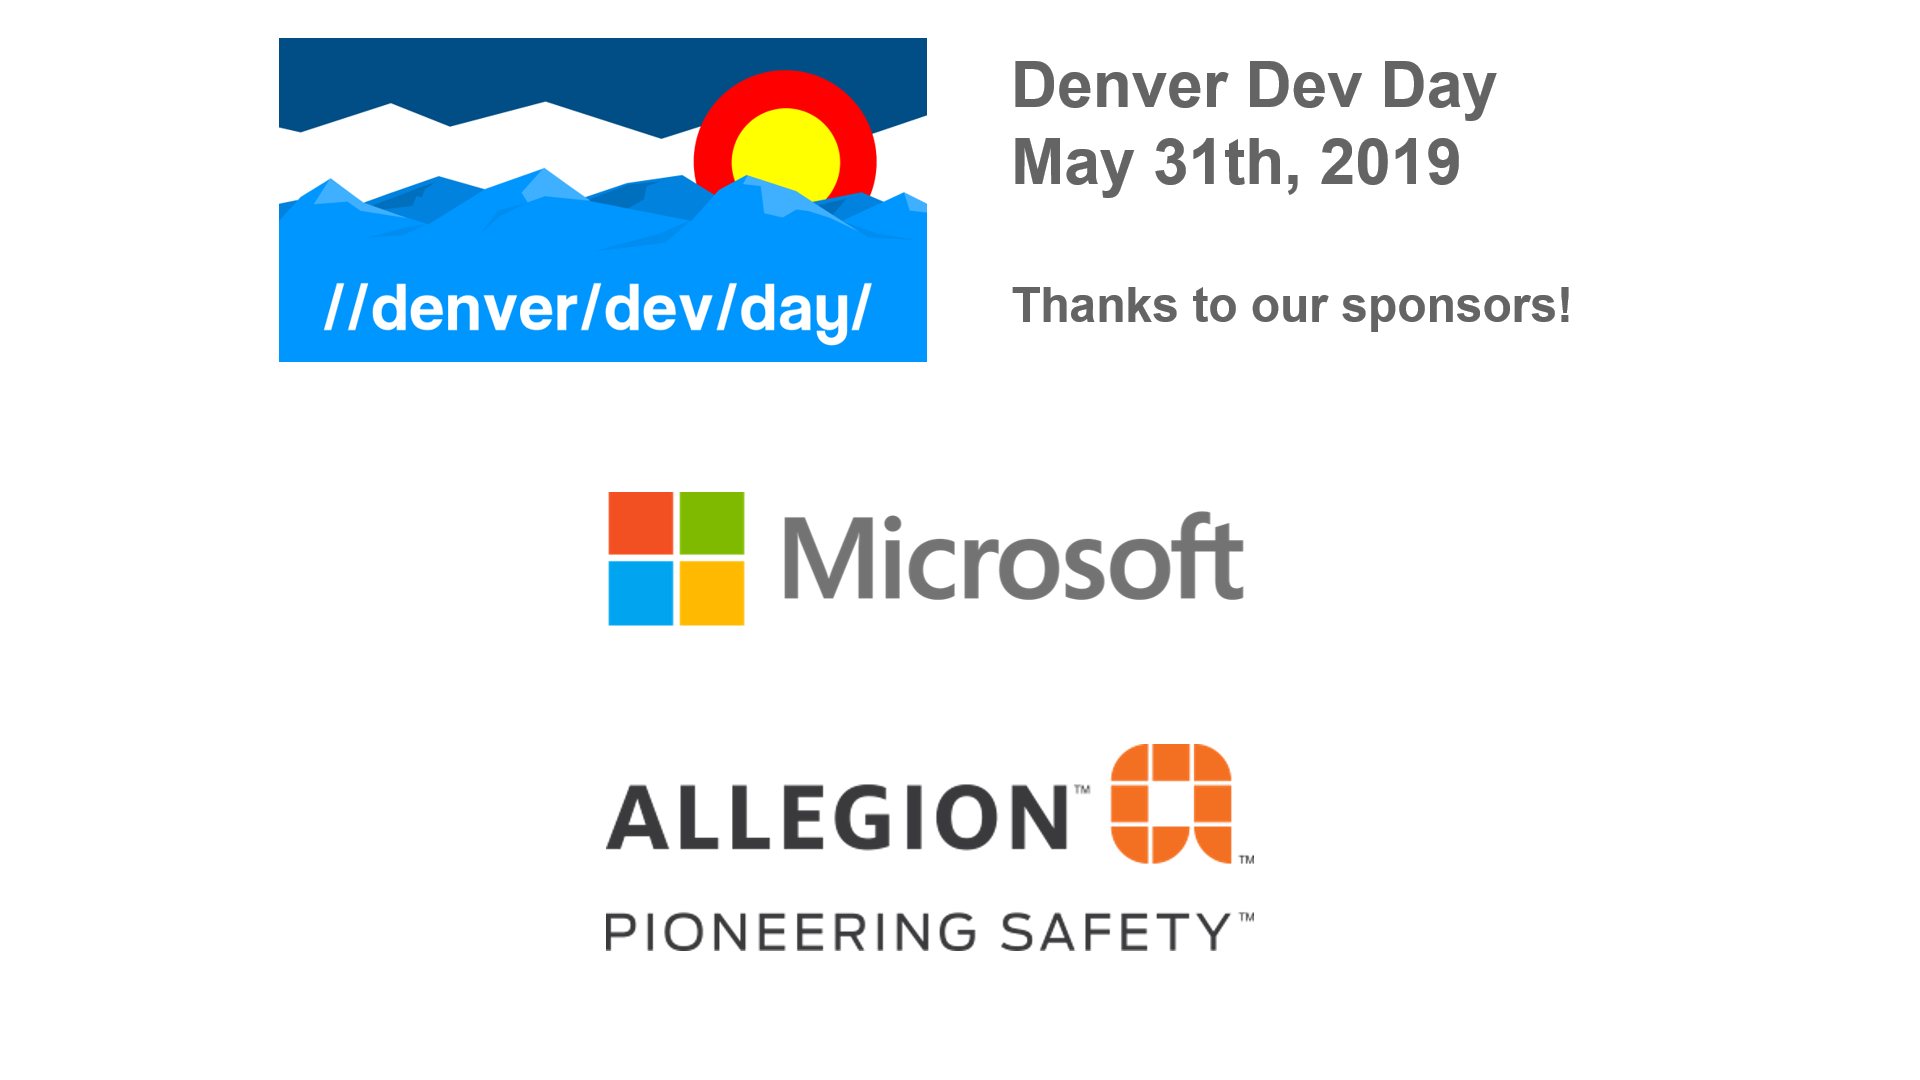
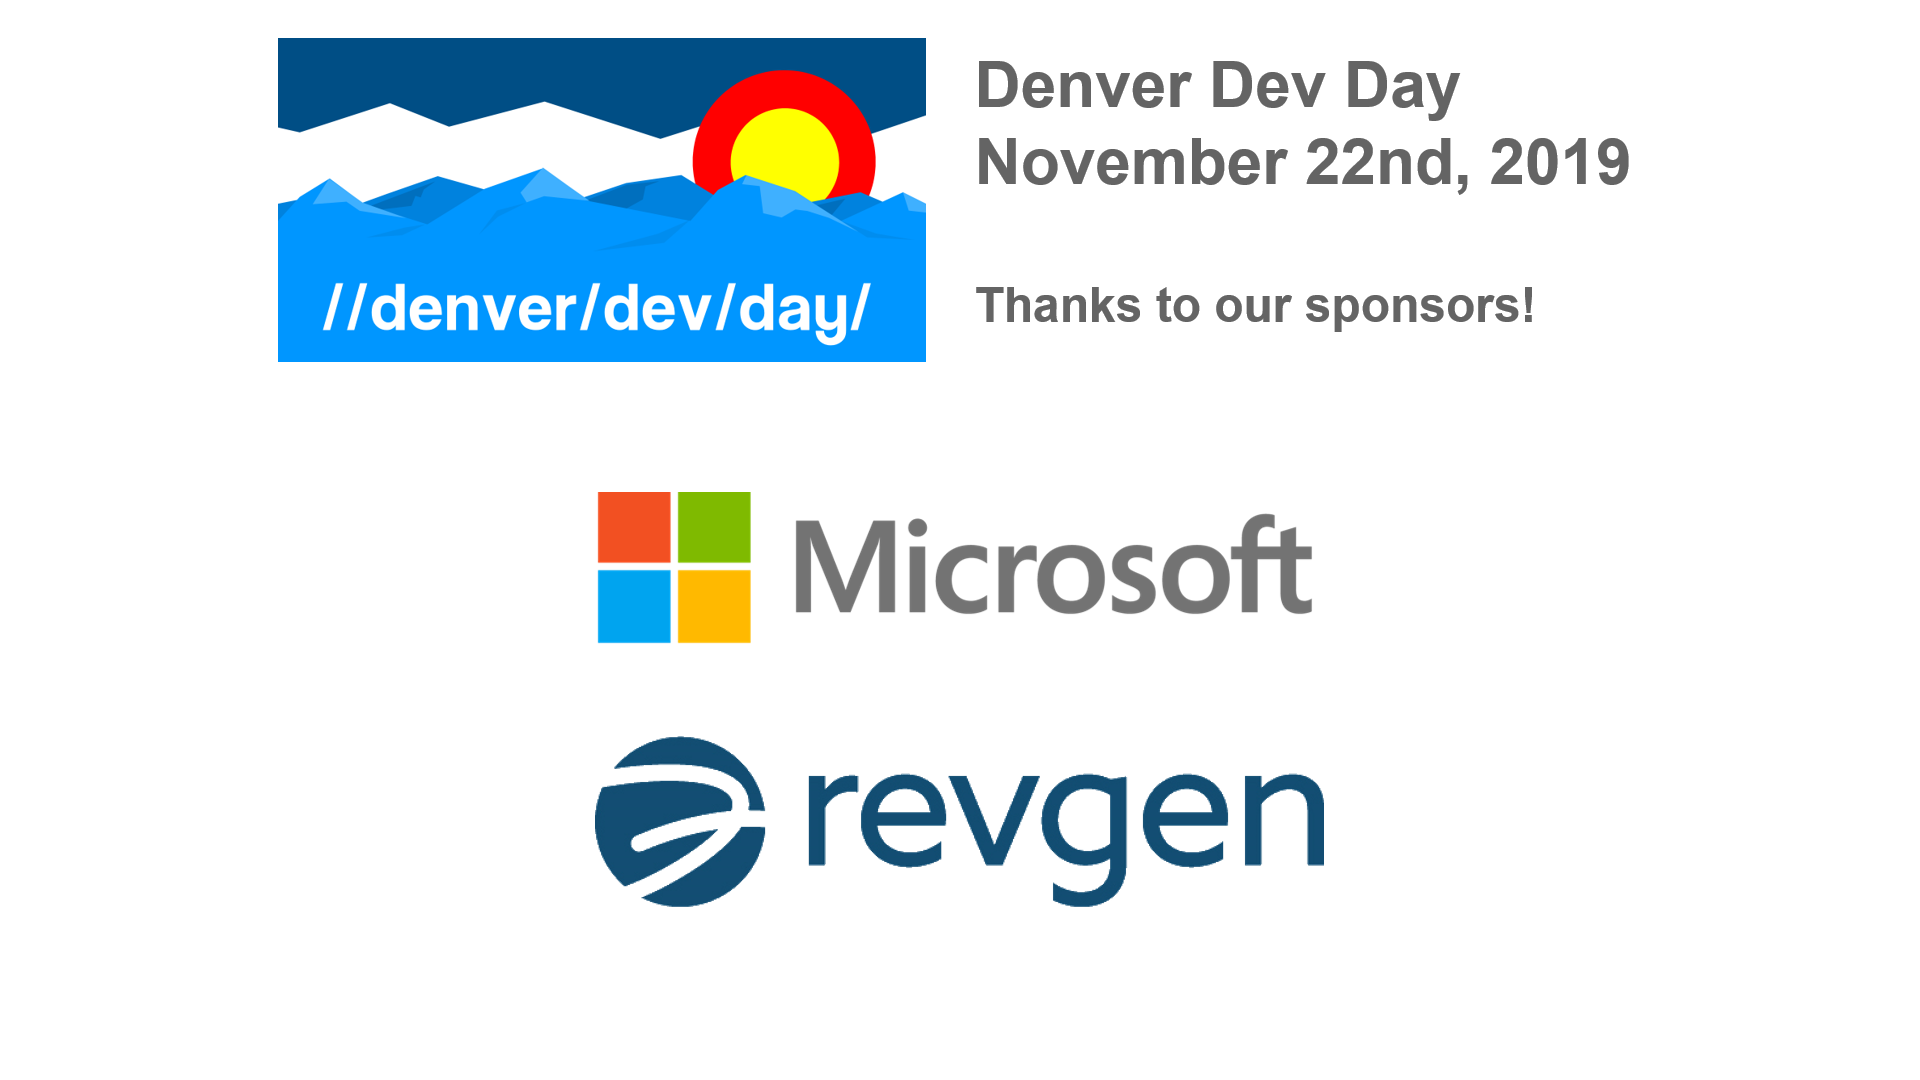
Update generated slides

diff --git a/index.html b/index.html
@@ -2,8 +2,8 @@
 <html lang="en">
 <head>
     <meta charset="utf-8">
-    <title>FAKE It Until You Make It</title>
-    <meta name="description" content="FAKE It Until You Make It. Denver Dev Day (May 31, 2019)">
+    <title>How slow your code is?</title>
+    <meta name="description" content=". Denver Dev Day (November 22, 2019)">
     <meta name="author" content="Grigoriy Belenkiy">
     <meta name="apple-mobile-web-app-capable" content="yes" />
     <meta name="apple-mobile-web-app-status-bar-style" content="black-translucent" />
@@ -55,8 +55,8 @@ Sponsors slide (required by organizators)<br/>
 </aside>
 </section>
 <section >
-<h3>FAKE It Until You Make It</h3>
-<p><img src="./images/fake-it-unicorn.jpg" alt="FAKE It" /></p>
+<h3>How slow your code is?</h3>
+<p><img src="./images/tortoise-hare-race.jpg" alt="Race" /></p>
 <p><small>Grigoriy Belenkiy<br/>
 Software engineer at <img src="./images/361-logo-gray.png#align-hack" alt="361 Capital" />
 <br/>
@@ -64,81 +64,13 @@ Software engineer at <img src="./images/361-logo-gray.png#align-hack" alt="361 C
 <br/>
 <br/>
 Denver Dev Day<br/>
-May 31, 2019</small></p>
-</section>
-<section >
-<h3>DevOps</h3>
-<ul>
-<li>What if you're more on the Dev side than on Ops?</li>
-<li>No dedicated team?</li>
-<li>Want to give F# a try?</li>
-</ul>
-</section>
-<section >
-<h3>FAKE = F# Make</h3>
-<ul>
-<li>Code your build with a gazillion helper functions</li>
-<li>Not limited to the build - can run FSX script</li>
-<li>Global dotnet tool</li>
-</ul>
-<aside class="notes">
-<h1>! on Linux?<br/></h1>
-</aside>
-</section>
-<section >
-<h3>Extras</h3>
-<ul>
-<li>Paket = Nuget + scripts (from the GitHub for example)</li>
-<li>Download and add references</li>
-</ul>
-</section>
-<section >
-<h3>Demo</h3>
-<p>Hello, World!</p>
-</section>
-<section >
-<h3>Anatomy of the build script</h3>
-<ul>
-<li>Paket - build group reference</li>
-<li>Evaluate environment variables (if needed)</li>
-<li>Targets (i.e. build steps)</li>
-<li>Target dependencies</li>
-<li>Default target</li>
-</ul>
-</section>
-<section >
-<h3>Demo</h3>
-<p>Hello, World! (again)</p>
-</section>
-<section >
-<section >
-<h3>Bonus - Azure pipeline task</h3>
-<p>*
-<img src="./images/azure.png" alt="Azure pipeline" /></p>
-</section>
-<section >
-<h3>Bonus - ARM Helper</h3>
-<small>
-<table class="pre"><tr><td class="lines"><pre class="fssnip"><span class="l">1: </span>
-<span class="l">2: </span>
-<span class="l">3: </span>
-<span class="l">4: </span>
-</pre></td>
-<td class="snippet"><pre class="fssnip highlighted"><code lang="fsharp"><span class="i">github</span> <span class="i">CompositionalIT</span><span class="o">/</span><span class="i">fshelpers</span> <span class="i">src</span><span class="o">/</span><span class="i">FsHelpers</span><span class="o">/</span><span class="i">ArmHelper</span><span class="o">/</span><span class="i">ArmHelper</span><span class="o">.</span><span class="i">fs</span>
-<span class="o">..</span><span class="o">.</span>
-<span class="prep">#load</span> <span class="s">&quot;paket-files/build/CompositionalIT/fshelpers/src/FsHelpers/</span>
-<span class="s">       ArmHelper/ArmHelper.fs&quot;</span>
-</code></pre></td>
-</tr>
-</table>
-</small>
-</section>
+November 22, 2019</small></p>
 </section>
 <section >
 <h4>Questions?</h4>
-<p><a href="https://github.com/grishace/ddd-fake"><img src="./images/qrcode.png" alt="https://github.com/grishace/ddd-fake" /></a><br/>
-<a href="https://github.com/grishace/ddd-fake"><a href="https://github.com/grishace/ddd-fake">https://github.com/grishace/ddd-fake</a></a></p>
-<p><a href="https://fake.build/"><a href="https://fake.build">https://fake.build</a></a></p>
+<p><a href="https://github.com/grishace/ddd-bench"><img src="./images/qrcode.png" alt="https://github.com/grishace/ddd-bench" /></a><br/>
+<a href="https://github.com/grishace/ddd-bench"><a href="https://github.com/grishace/ddd-bench">https://github.com/grishace/ddd-bench</a></a></p>
+<p><a href="https://benchmarkdotnet.org/"><a href="https://benchmarkdotnet.org/">https://benchmarkdotnet.org/</a></a></p>
 </section>
 
 
